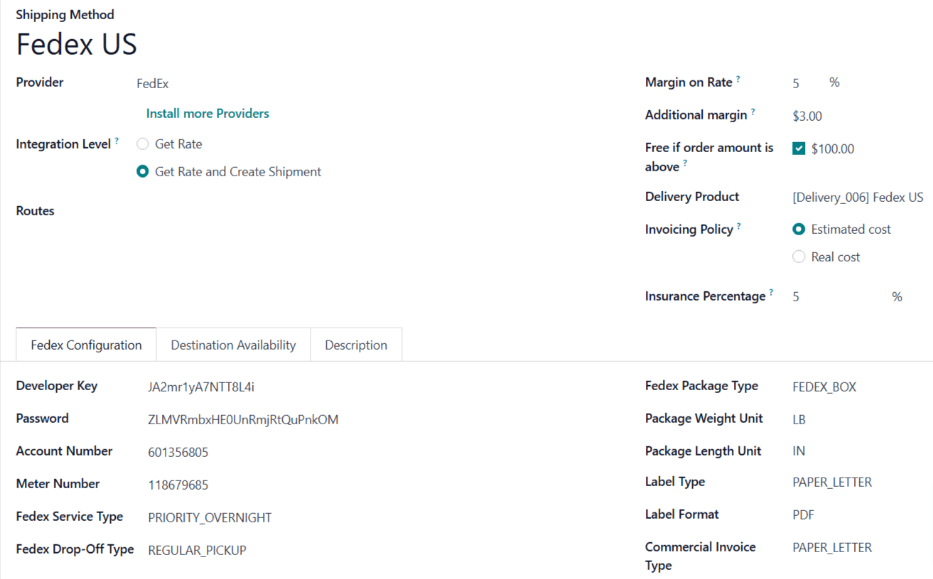
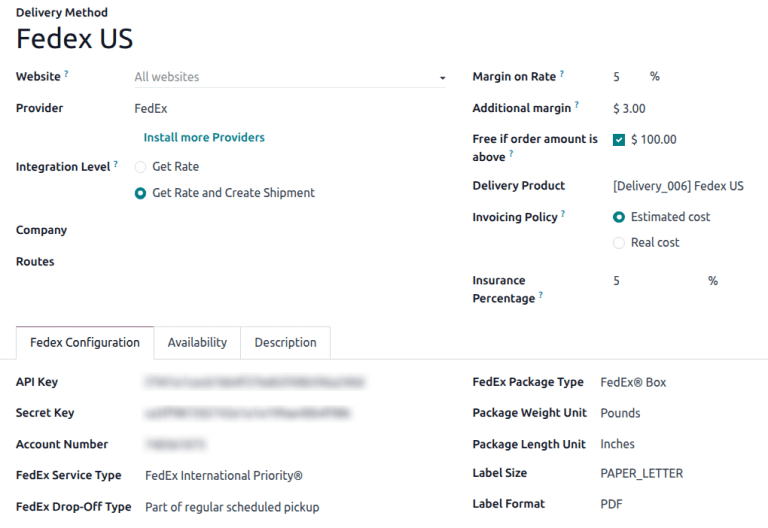
[IMP] Inventory: Fedex Configuration update
closes odoo/documentation#14096

X-original-commit: 165a6384f58f356ea4c355c54ea48e0dc11e649c

diff --git a/content/applications/inventory_and_mrp/inventory/shipping_receiving/setup_configuration/fedex.rst b/content/applications/inventory_and_mrp/inventory/shipping_receiving/setup_configuration/fedex.rst
@@ -3,7 +3,7 @@ FedEx integration
 =================
 
 Integrating a FedEx account with Odoo's **Inventory** app makes it possible to :doc:`calculate
-shipping rates <../setup_configuration>`, and :doc:`generate shipping labels <labels>` within Odoo.
+delivery rates <../setup_configuration>`, and :doc:`generate delivery labels <labels>` within Odoo.
 This is accomplished by enabling the FedEx *shipping connector*, then configuring at least one
 *shipping method*.
 
@@ -23,90 +23,106 @@ Finally, click :guilabel:`Save` to save the changes. After doing so, a :icon:`oi
 :guilabel:`FedEx Shipping Methods` button appears below :guilabel:`FedEx Connector`.
 
 .. image:: fedex/fsm-button.png
-   :align: center
    :alt: The FedEx Shipping Methods button below the FedEx Connector.
 
-Configure shipping method
+Configure delivery method
 =========================
 
-Once the FedEx shipping connector is enabled, it is necessary to configure at least one shipping
-method. After doing so, the shipping method can be included in sales orders (SOs), and used to
-compute shipping costs, and print shipping labels.
+Once the FedEx shipping connector is enabled, it is necessary to configure at least one delivery
+method. After doing so, the delivery method can be included in sales orders (SOs), and used to
+compute delivery costs, and print delivery labels.
 
-To enable a shipping method, navigate to :menuselection:`Inventory app --> Configuration -->
+To enable a delivery method, navigate to :menuselection:`Inventory app --> Configuration -->
 Settings`, and click the :guilabel:`FedEx Shipping Methods` button below the :guilabel:`FedEx
-Connector` checkbox. Doing so opens a page that shows all existing FedEx shipping methods.
+Connector` checkbox. Doing so opens a page that shows all existing FedEx delivery methods.
 
 .. note::
-   To see all shipping methods for every shipper with a connector enabled, navigate to
-   :menuselection:`Inventory app --> Configuration --> Shipping Methods`.
+   To see all delivery methods for every shipper with a connector enabled, navigate to
+   :menuselection:`Inventory app --> Configuration --> Delivery Methods`.
 
-Select a shipping method to open its form. Alternatively, click :guilabel:`New` to open a blank
-form, and configure a new shipping method.
+Select a delivery method to open its form. Alternatively, click :guilabel:`New` to open a blank
+form, and configure a new delivery method.
 
 .. image:: fedex/fedex-form.png
-   :align: center
-   :alt: The form for a FedEx shipping method.
+   :alt: The form for a FedEx delivery method.
 
 .. important::
    Enabling the FedEx shipping connector automatically creates two default shipping methods:
    :guilabel:`FedEx US` and :guilabel:`FedEx International`. Each of these methods are
    pre-configured with test credentials, allowing them to be used for testing purposes.
 
-   Before the shipping method can be used to create actual shipments, the test credentials must be
+   Before the delivery method can be used to create actual shipments, the test credentials must be
    replaced with credentials from a valid FedEx account.
 
 General information
 -------------------
 
-At the very top of a shipping method form are fields used to configure the way the method operates
+At the very top of a delivery method form are fields used to configure the way the method operates
 in Odoo. In the :guilabel:`Provider` field, select :guilabel:`FedEx` from the drop-down menu, if it
 is not already selected.
 
-The rest of the fields in this section are general to all shipping providers. For details on how to
+The rest of the fields in this section are general to all delivery providers. For details on how to
 fill them out, see the documentation on :doc:`third-party shippers <third_party_shipper>`.
 
 Fedex Configuration tab
 -----------------------
 
-The options in the :guilabel:`Fedex Configuration` tab of a FedEx shipping method form are used to
-connect the method to a FedEx account, and configure the shipping details associated with the method
+The options in the :guilabel:`Fedex Configuration` tab of a FedEx delivery method form are used to
+connect the method to a FedEx account, and configure the delivery details associated with the method
 (drop-off type, package type, etc.).
 
-A FedEx business account is required to obtain the information needed to fill out the fields in this
-tab. To create a new account, navigate to FedEx's `Open Account
+A FedEx developer account is required to obtain the information needed to fill out the fields in
+this tab. To create a new account, navigate to FedEx's `Open Account
 <https://www.fedex.com/en-us/open-account.html>`_ page, click on :guilabel:`Create Account`, and
 follow the instructions.
 
-Developer Key and Meter Number fields
-~~~~~~~~~~~~~~~~~~~~~~~~~~~~~~~~~~~~~
+Create API Project
+~~~~~~~~~~~~~~~~~~
 
-A *developer key* is used to integrate a FedEx account with an external service, like the Odoo
-**Inventory** app. A *meter number* is a unique ID number used by FedEx to identify negotiated
-shipping rates for each account.
+After creating a `developer account <https://developer.fedex.com/api/en-us/home.html>`_, navigate to
+the :guilabel:`My Projects` tab, and click :guilabel:`CREATE API PROJECT`.
 
-To get a developer key and meter number, begin by navigating to FedEx's `Developer Resource Center
-<https://www.fedex.com/en-us/developer/web-services.html>`_. Then, click on the :guilabel:`FedEx Web
-Services` drop-down menu.
+On the :guilabel:`Tell us about your API needs` popup, select `Ships with FedEX and needs to
+integrate FedEx APIs into their system` in the :guilabel:`I work for a company that:` drop-down.
 
-Click :guilabel:`Get Test Key` to start the process of getting a developer key and meter number
-which can be used to configure a shipping method for testing purposes.
+.. image:: fedex/fed-ex-api-needs.png
+   :alt: Pop-up on FedEx website to select API needs.
 
-Click :guilabel:`Get Production Key` to start the process of getting a developer key and meter
-number, which can be used to configure a shipping method that generates real shipments with FedEx.
+Next, when prompted to `Select API(s) for your project`, make sure to enable the following APIs:
 
-After clicking either option, follow the instructions until the :guilabel:`Confirmation` screen is
-reached. This screen displays the developer key and meter number.
+ - :guilabel:`Ship, Rate & Other APIs`
+ - :guilabel:`Address Validation API`
+ - :guilabel:`Rates and Transit Times API`
+ - :guilabel:`Ship API`
+ - :guilabel:`Trade Documents Upload API`
 
-Once the developer key and meter number are determined, enter them in the :guilabel:`Developer Key`
-and :guilabel:`Meter Number` fields on the :guilabel:`Fedex Configuration` tab of the shipping
-method form.
+.. image:: fedex/select-apis.png
+   :alt: Page on FedEx website where users select the APIs needed for project.
 
-Password and Account Number fields
-~~~~~~~~~~~~~~~~~~~~~~~~~~~~~~~~~~
+Enter a :guilabel:`Project name`, then select any countries where packages will be shipped to, or
+delivered from.
 
-A *password* is used, along with a username, to log into a FedEx account. An *account number* is the
-unique number assigned to each FedEx account.
+.. image:: fedex/country-selector.png
+   :alt: Page on FedEx website where users select the countries they ship to and from.
+
+To move the project to production, click the :guilabel:`Production key` tab. From there, link a
+:guilabel:`Shipping Account`. Copy the `API Key`, `Secret Key`, and `Account` number, then paste
+them into the appropriate fields on the :guilabel:`Delivery Methods` form.
+
+Certification process
+~~~~~~~~~~~~~~~~~~~~~
+
+To enable the creation of FedEx shipping labels, the API must be certified. On the sidebar menu in
+the FedEx `developer portal <https://developer.fedex.com/api/en-us/home.html>`_, click
+:guilabel:`API Certification`, and follow the required instructions.
+
+.. note::
+   These certification often require reaching out to the FedEx support team via email.
+
+Account Number fields
+~~~~~~~~~~~~~~~~~~~~~
+
+An *account number* is the unique number assigned to each FedEx account.
 
 To find a FedEx account number, log in to a FedEx account at https://www.fedex.com. Click on the
 account holder's name in the top-right corner of the screen, and select :menuselection:`My Profile`
@@ -116,27 +132,27 @@ On the profile page, click :guilabel:`Account Management` on the left side of th
 account number is displayed on this screen.
 
 Once the password and account number are determined, enter them in the :guilabel:`Password` and
-:guilabel:`Account Number` fields on the :guilabel:`Fedex Configuration` tab of the shipping method
+:guilabel:`Account Number` fields on the :guilabel:`Fedex Configuration` tab of the delivery method
 form.
 
-Shipping details
+Delivery details
 ~~~~~~~~~~~~~~~~
 
 The main section of the :guilabel:`Fedex Configuration` tab includes a number of additional fields
-used provide information about the shipping method:
+used provide information about the delivery method:
 
 - :guilabel:`Fedex Service Type`: The FedEx service used to ship a package.
 - :guilabel:`Fedex Drop-Off Type`: The method for getting a package into FedEx's possession.
-- :guilabel:`Fedex Package Type`: The type of package used for the shipping method.
+- :guilabel:`Fedex Package Type`: The type of package used for the delivery method.
 - :guilabel:`Package Weight Unit`: The unit of measure used to weigh packages.
 - :guilabel:`Package Length Unit`: The unit of measure used to determine the dimensions of packages.
-- :guilabel:`Label Type`: The type of shipping label used for packages.
-- :guilabel:`Label Format`: The file format used by Odoo to generate shipping labels.
+- :guilabel:`Label Type`: The type of delivery label used for packages.
+- :guilabel:`Label Format`: The file format used by Odoo to generate delivery labels.
 - :guilabel:`Commercial Invoice Type`: The dimensions and type of the paper used to print invoices.
 
 .. important::
-   The options that should be selected on the :guilabel:`Fedex Configuration` tab of a shipping
-   method depend on the negotiated shipping services of the associated FedEx account. To confirm the
+   The options that should be selected on the :guilabel:`Fedex Configuration` tab of a delivery
+   method depend on the negotiated delivery services of the associated FedEx account. To confirm the
    available services for a FedEx account, visit the *Account Management* page after logging in to
    the FedEx website, or speak with a customer service representative.
 
@@ -144,7 +160,7 @@ Options section
 ~~~~~~~~~~~~~~~
 
 The :guilabel:`Options` section of the :guilabel:`Fedex Configuration` tab provides a few additional
-options to further configure the shipping method:
+options to further configure the delivery method:
 
 - :guilabel:`Saturday Delivery`: Tick the checkbox to allow packages shipped with the delivery
   method to be delivered on Saturdays.
@@ -153,22 +169,22 @@ options to further configure the shipping method:
 - :guilabel:`Duties paid by`: Use the drop-down menu to select whether duty charges should be paid
   by the :guilabel:`Sender` or :guilabel:`Recipient`.
 
-Activate shipping method
+Activate delivery method
 ========================
 
-By default, shipping methods in Odoo are created within a *test environment*. This means they can
-only be used for testing purposes, and are unable to generate actual shipping orders.
+By default, delivery methods in Odoo are created within a *test environment*. This means they can
+only be used for testing purposes, and are unable to generate actual delivery orders.
 
-To activate a shipping method in a *production environment*, click the :icon:`fa-stop`
-:guilabel:`Test Environment` smart button at the top of the shipping method form. After doing so,
+To activate a delivery method in a *production environment*, click the :icon:`fa-stop`
+:guilabel:`Test Environment` smart button at the top of the delivery method form. After doing so,
 the smart buttons changes to read :icon:`fa-play` :guilabel:`Production Environment`.
 
-With the production environment enabled, validating a delivery order using the shipping method
-generates an actual shipping label with FedEx.
+With the production environment enabled, validating a delivery order using the delivery method
+generates an actual delivery label with FedEx.
 
-Click the :icon:`fa-play` :guilabel:`Production Environment` smart button to return the shipping
+Click the :icon:`fa-play` :guilabel:`Production Environment` smart button to return the delivery
 method to a test environment.
 
 .. warning::
-   **Do not** enable the production environment for a shipping method before it is ready to be used
-   for actual shipping orders. Doing so may lead to the creation of unwanted charges with FedEx.
+   **Do not** enable the production environment for a delivery method before it is ready to be used
+   for actual delivery orders. Doing so may lead to the creation of unwanted charges with FedEx.
